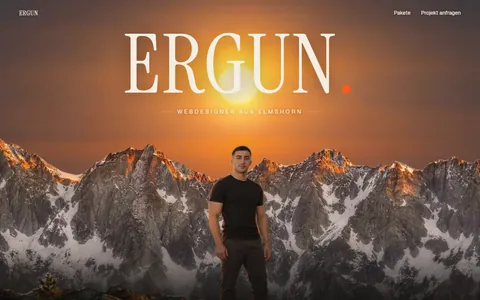
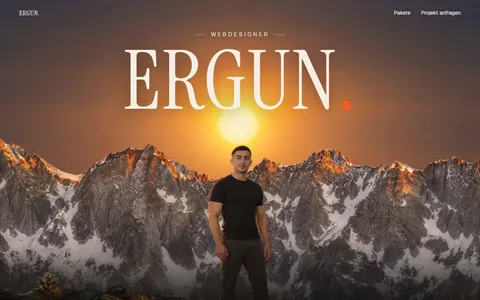
Sonne in allen Vorschauen sichtbar, nur Webdesigner, Zeile ueber dem Namen

Changed region(s): [[0.0938, 0.0, 0.9688, 0.6]]

diff --git a/index.html b/index.html
@@ -3,13 +3,13 @@
 <head>
 <meta charset="utf-8">
 <meta name="viewport" content="width=device-width, initial-scale=1">
-<title>ERGUN. – Webdesigner aus Elmshorn</title>
+<title>ERGUN. – Webdesigner</title>
 <meta name="description" content="Websites mit Design, Bewegung und eigenen Bildern. Drei Pakete mit festem Preis, entworfen und gebaut in Elmshorn.">
 <meta name="theme-color" content="#0E0E0C">
 
 <!-- Teilen in Social Media / Messengern -->
 <meta property="og:type" content="website">
-<meta property="og:title" content="ERGUN. – Webdesigner aus Elmshorn">
+<meta property="og:title" content="ERGUN. – Webdesigner">
 <meta property="og:description" content="Websites mit Design, Bewegung und eigenen Bildern. Drei Pakete, fester Preis, aus Elmshorn.">
 <meta property="og:image" content="https://website-ergun.vercel.app/bilder/og.jpg">
 <meta property="og:url" content="https://website-ergun.vercel.app/">
@@ -163,7 +163,7 @@ html.intro .parallax__title { opacity: 0; }
 .parallax__title .dot, .nav__mark .dot { color: var(--accent); }
 .parallax__title .dot { text-shadow: 0 0 0.35em rgba(255,140,60,0.7); }
 .nav__mark { text-transform: uppercase; letter-spacing: 0.06em; font-size: 18px; }
-.parallax__layer-img--sky { top: -26%; }
+.parallax__layer-img--sky { top: -15%; }
 /* Sonne/Glut hinter dem Titel – bewegt sich mit dem Himmel */
 .parallax__glow {
   position: absolute; left: 50%; top: 4%;
@@ -336,6 +336,7 @@ html.intro .parallax__title { opacity: 0; }
   font-family: var(--sans); font-size: clamp(12px, 1.15vw, 15px); letter-spacing: 0.32em; text-transform: uppercase;
   color: rgba(244,238,228,0.88); text-shadow: 0 1px 14px rgba(0,0,0,0.55);
 }
+.parallax__rolle { order: -1; }   /* ueber dem Namen: dunkler Himmel statt heller Sonne */
 .parallax__rolle::before, .parallax__rolle::after { content: ""; width: 28px; height: 1px; background: rgba(255,176,102,0.75); }
 
 /* Navigation: beim Runterscrollen weg, beim Hochscrollen wieder da */
@@ -375,8 +376,8 @@ html.intro .parallax__title { opacity: 0; }
 .demo-browser__leiste i { width: 5px; height: 5px; border-radius: 50%; background: rgba(242,239,232,0.25); }
 .demo-browser__buehne { position: absolute; inset: 14px 0 0 0; overflow: hidden; }
 .demo-browser__buehne img { position: absolute; left: 0; top: 0; width: 100%; height: 118%; object-fit: cover; object-position: 50% 100%; will-change: transform; }
-.demo-browser__buehne img[data-mini="1"] { top: -18%; height: 135%; object-position: 50% 30%; }
-.demo-browser__titel { position: absolute; left: 0; right: 0; top: 12%; text-align: center; font-family: var(--serif); font-size: 26px; letter-spacing: 0.02em; color: #F4EEE4; text-shadow: 0 1px 10px rgba(0,0,0,0.5); will-change: transform; }
+.demo-browser__buehne img[data-mini="1"] { top: -22%; height: 135%; object-position: 50% 30%; }
+.demo-browser__titel { position: absolute; left: 0; right: 0; top: 4%; text-align: center; font-family: var(--serif); font-size: 24px; letter-spacing: 0.02em; color: #F4EEE4; text-shadow: 0 1px 10px rgba(0,0,0,0.5); will-change: transform; }
 .demo-browser__titel b { font-weight: 400; color: var(--accent); }
 
 /* ---------- Kontakt v2: Auswahl, Live-Vorschau ---------- */
@@ -492,7 +493,7 @@ html.intro .parallax__title { opacity: 0; }
         <img src="bilder/hero/layer-2-ridge.webp" data-hoch="bilder/hero/layer-2-ridge-hoch.webp" srcset="bilder/hero/layer-2-ridge-1920.webp 1920w, bilder/hero/layer-2-ridge.webp 4096w" sizes="(orientation: portrait) 4096px, 100vw" width="4096" height="2323" data-parallax-layer="2" class="parallax__layer-img" alt="" fetchpriority="high">
         <div data-parallax-layer="3" class="parallax__layer-title">
           <h1 class="parallax__title">ERGUN<span class="dot">.</span></h1>
-          <p class="parallax__rolle">Webdesigner aus Elmshorn</p>
+          <p class="parallax__rolle">Webdesigner</p>
         </div>
         <img src="bilder/hero/layer-4-foreground.webp" data-hoch="bilder/hero/layer-4-foreground-hoch.webp" srcset="bilder/hero/layer-4-foreground-1920.webp 1920w, bilder/hero/layer-4-foreground.webp 4096w" sizes="(orientation: portrait) 4096px, 100vw" width="4096" height="2323" data-parallax-layer="4" class="parallax__layer-img" alt="" fetchpriority="high">
         <img src="bilder/hero/layer-5-person.webp" data-hoch="bilder/hero/layer-5-person-hoch.webp" srcset="bilder/hero/layer-5-person-1920.webp 1920w, bilder/hero/layer-5-person.webp 5459w" sizes="(orientation: portrait) 4096px, 100vw" width="5459" height="3096" data-parallax-layer="5" class="parallax__layer-img" alt="" fetchpriority="high" onerror="this.remove()">
@@ -577,7 +578,7 @@ html.intro .parallax__title { opacity: 0; }
       </li>
     </ul>
     <div class="packages__trust reveal">
-      <span>Persönlich von Emre Ergun, Elmshorn</span>
+      <span>Persönlich von Emre Ergun</span>
       <span>Vorschau im Browser vor dem Start</span>
       <span>Keine versteckten Kosten</span>
     </div>
@@ -652,7 +653,7 @@ html.intro .parallax__title { opacity: 0; }
 </main>
 
 <footer class="footer">
-  <span>ERGUN. · Emre Ergun · Elmshorn · © 2026</span>
+  <span>ERGUN. · Emre Ergun · Webdesigner · © 2026</span>
   <nav aria-label="Rechtliches">
     <a href="impressum.html">Impressum</a>
     <a href="datenschutz.html">Datenschutz</a>
@@ -915,7 +916,7 @@ html.intro .parallax__title { opacity: 0; }
   });
   gsap.utils.toArray('[data-demo-parallax]').forEach(function (b) {
     var tl = gsap.timeline({ paused: true, repeat: -1, yoyo: true, defaults: { duration: 3.4, ease: 'sine.inOut' } });
-    [['1', 22], ['2', 14], ['3', 18], ['4', 4], ['5', 4]].forEach(function (l) { tl.to(b.querySelector('[data-mini="' + l[0] + '"]'), { y: l[1] }, 0); });
+    [['1', 3], ['2', 12], ['3', 5], ['4', 3], ['5', 3]].forEach(function (l) { tl.to(b.querySelector('[data-mini="' + l[0] + '"]'), { y: l[1] }, 0); });
     nurSichtbar(b, tl);
   });
 

diff --git a/LIESMICH.md b/LIESMICH.md
@@ -67,3 +67,9 @@ Handy: Bewegung × 0,6. `prefers-reduced-motion`: Standbild.
 Nur dieser Ordner gehört ins öffentliche Repo – **nicht der ganze Vault** (Notizen, Preise, Impressum-Daten, Fotos).
 Hochladen: `index.html`, `impressum.html`, `datenschutz.html`, `favicon*`, `apple-touch-icon.png`, `js/`, `schriften/`,
 `bilder/hero/*.webp`, `bilder/og.jpg`. Ordner `bilder/hero/4k/` und alle PNG weglassen. Plan: `08 Projekte/Deployment.md`.
+
+## Pakete & Kontakt (Stand 23.09., Claude Code)
+- Jede Paketkarte hat eine lebende Vorschau (`.pkg__demo`): Handy mit `bilder/demo/onepager.webp`, Stapel aus `bilder/demo/seite-*.webp`, Mini-Parallax aus den `*-1920.webp`-Ebenen. Neu erzeugen nach Änderungen: `bilder/hero/4k/demos_rendern.py` (braucht lokalen Server auf Port 8788).
+- Kontakt: Paket-Chips (Radio), Prüfung beim Verlassen eines Feldes, Live-Vorschau der WhatsApp-Nachricht (`[data-vorschau]`).
+- Intro: Start mit „E.", Punkt = Sonne (Glut über CSS-Variablen `--glut/--glutO`), goldener Schein über die Buchstaben, dann Entfalten und Aufgang aus dem Punkt.
+- Berge: `bilder/hero/4k/berge.py` füllt den Fuß des Kamms und gleicht Kamm und Vordergrund an. Originale liegen als `*-vor-angleich.webp` in `4k/`.
